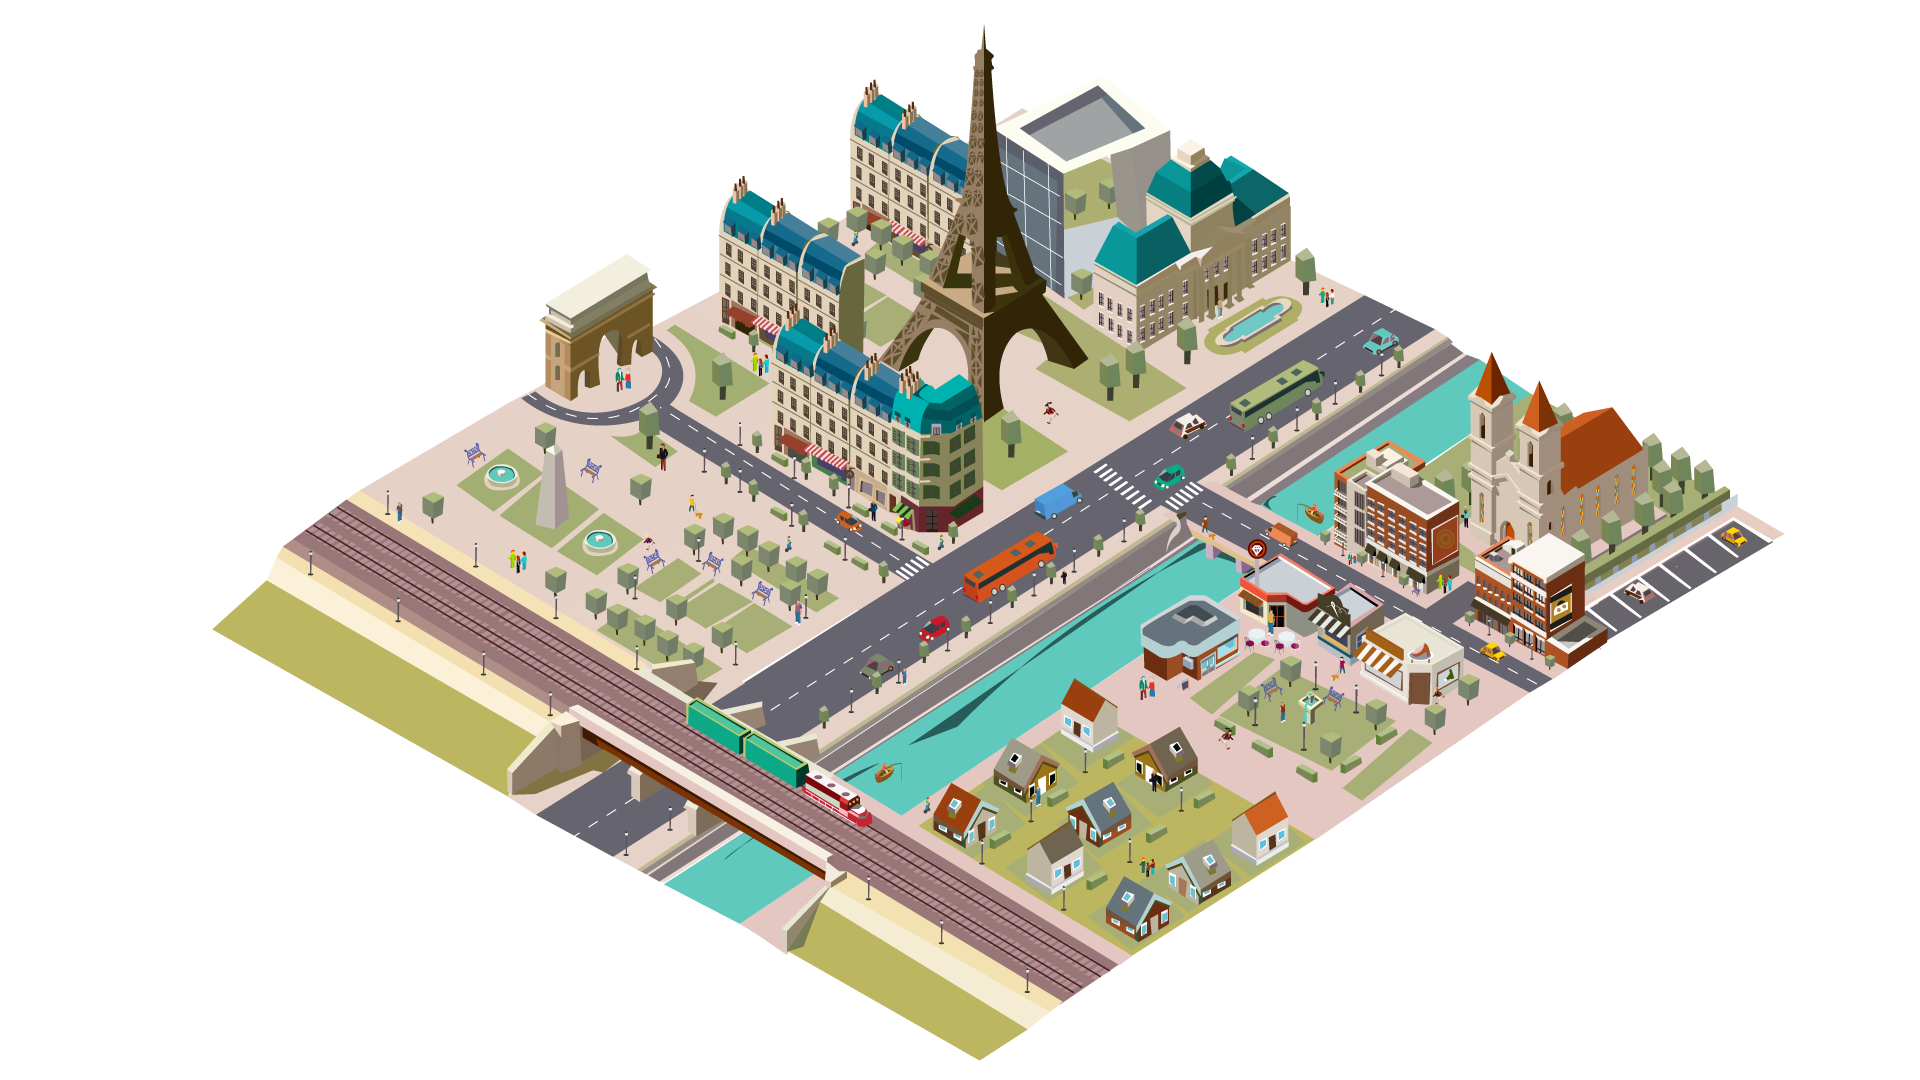
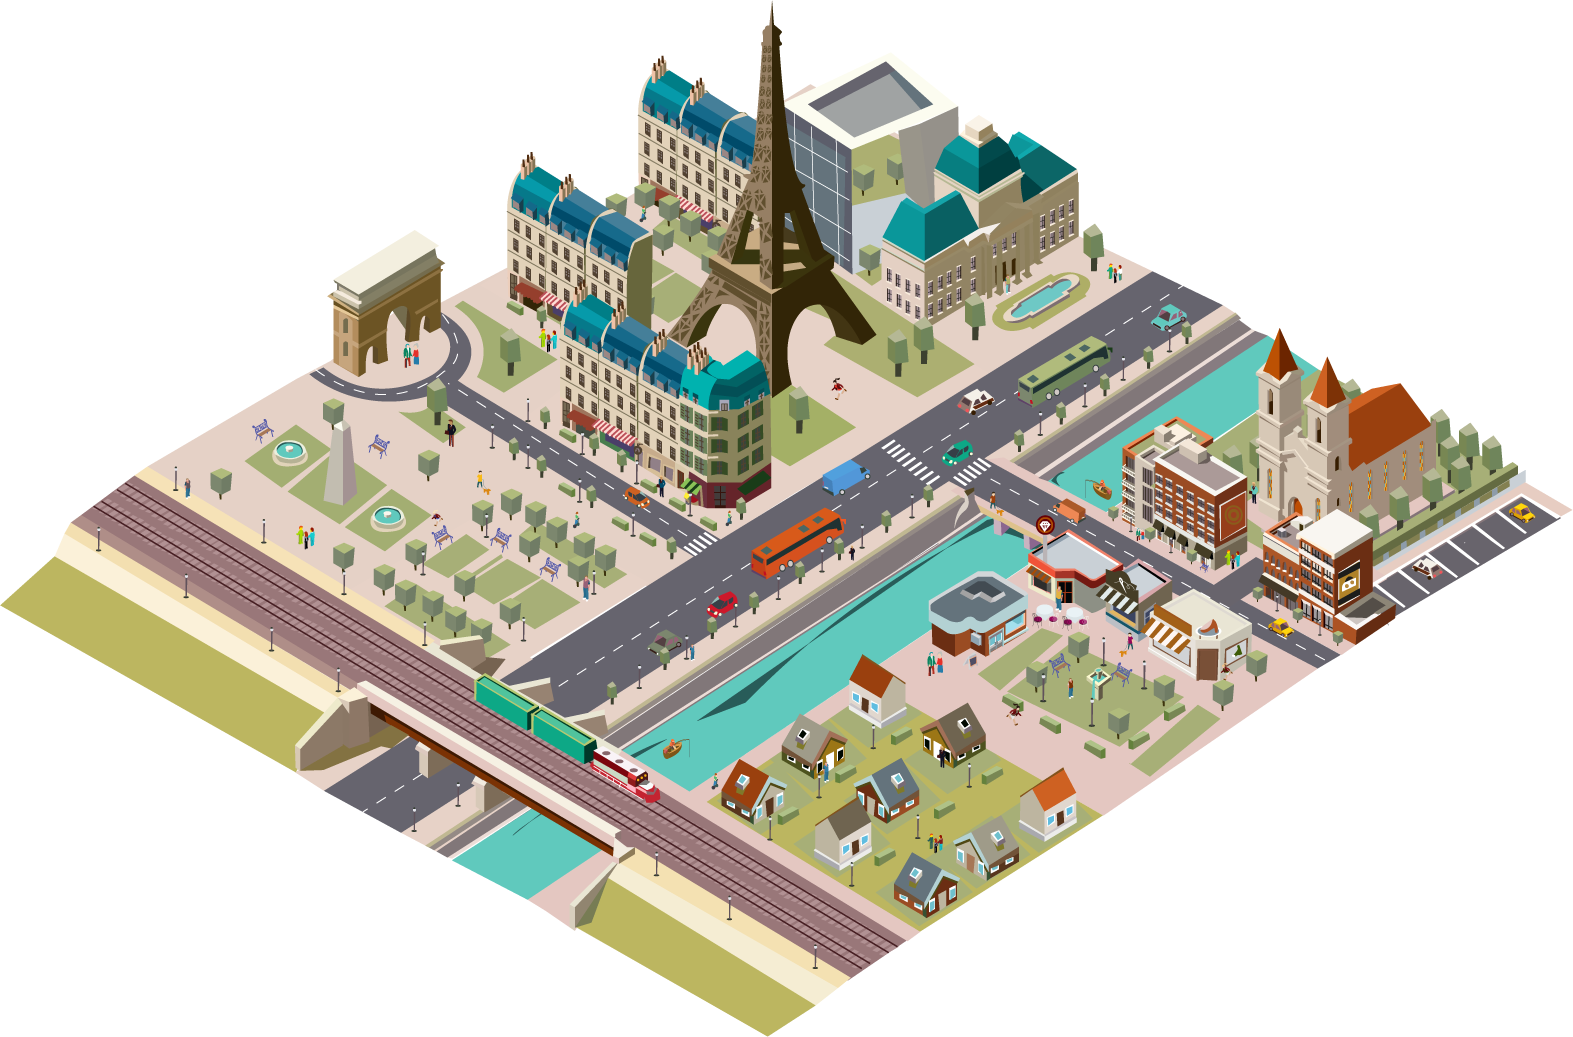
modif home page

diff --git a/web/style.css b/web/style.css
@@ -93,32 +93,41 @@ html body #main_container #home_container #welcome_container {
   background-image: url("assets/img/Rectangle.png");
   background-size: 100% 100%;
 }
-html body #main_container #home_container #welcome_container .content_container {
+html body #main_container #home_container #welcome_container .welcome_content {
   display: flex;
   flex-direction: column;
   margin: auto;
-  width: 70%;
+  width: 80%;
   align-items: center;
   height: 95%;
 }
-html body #main_container #home_container #welcome_container .content_container h4 {
+html body #main_container #home_container #welcome_container .welcome_content h4 {
   margin-top: 40px;
   font-family: 'Brandon_text-Medium';
   text-align: center;
   color: #f8f8f8;
 }
-html body #main_container #home_container #welcome_container .content_container hr {
+html body #main_container #home_container #welcome_container .welcome_content hr {
   width: 30%;
   background-color: #f8f8f8;
 }
-html body #main_container #home_container #welcome_container .content_container p {
+html body #main_container #home_container #welcome_container .welcome_content .row {
+  width: 100%;
+}
+html body #main_container #home_container #welcome_container .welcome_content .row .col-xl-3 p {
   margin: 0;
   color: #f8f8f8;
 }
-html body #main_container #home_container #welcome_container .content_container .paris_illustration {
-  width: 143%;
+html body #main_container #home_container #welcome_container .welcome_content .row .col-xl-9 {
+  display: flex;
+  justify-content: center;
 }
-html body #main_container #home_container #welcome_container .content_container a {
+html body #main_container #home_container #welcome_container .welcome_content .row .col-xl-9 .paris_illustration {
+  width: 90%;
+  height: 100%;
+  margin: auto;
+}
+html body #main_container #home_container #welcome_container .welcome_content a {
   margin-top: auto;
 }
 html body #main_container #project_container {

diff --git a/web/style.scss b/web/style.scss
@@ -183,8 +183,11 @@ html{
                     background-image: url("assets/img/Rectangle.png");
                     background-size: 100% 100%;
 
-                    .content_container{
-                        @include content_container;
+                    .welcome_content{
+                        display: flex;
+                        flex-direction: column;
+                        margin: auto;
+                        width: 80%;
                         align-items: center;
                         height: 95%;
 
@@ -199,14 +202,24 @@ html{
                             width: 30%;
                             background-color: $white;
                         }
+                        .row{
+                            width: 100%;
+                            .col-xl-3{
+                                p{
+                                    margin: 0;
+                                    color: $white;
+                                }
+                            }
+                            .col-xl-9{
+                                display: flex;
+                                justify-content: center;
 
-                        p{
-                            margin: 0;
-                            color: $white;
-                        }
-
-                        .paris_illustration{
-                            width: 143%;
+                                .paris_illustration{
+                                    width: 90%;
+                                    height: 100%;
+                                    margin: auto;
+                                }
+                            }
                         }
 
                         a{
